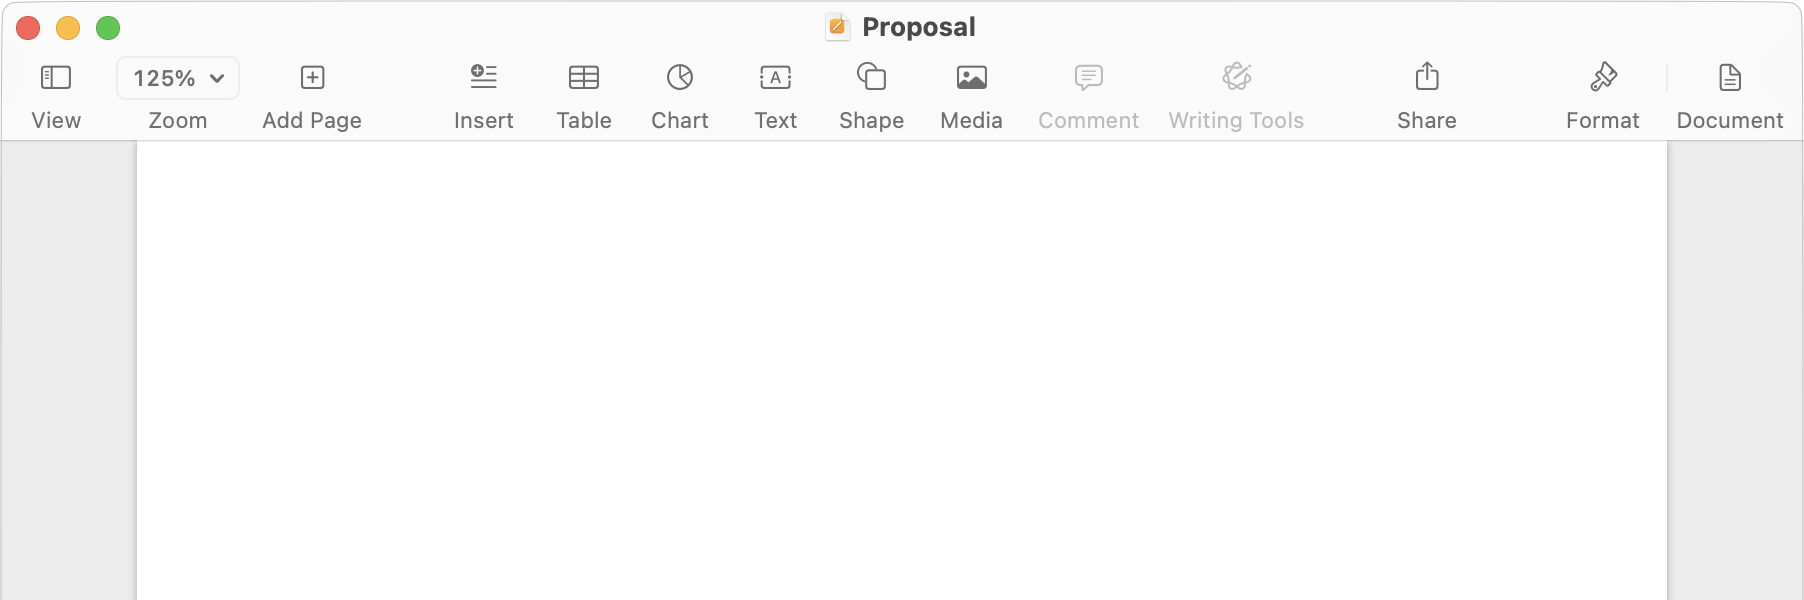
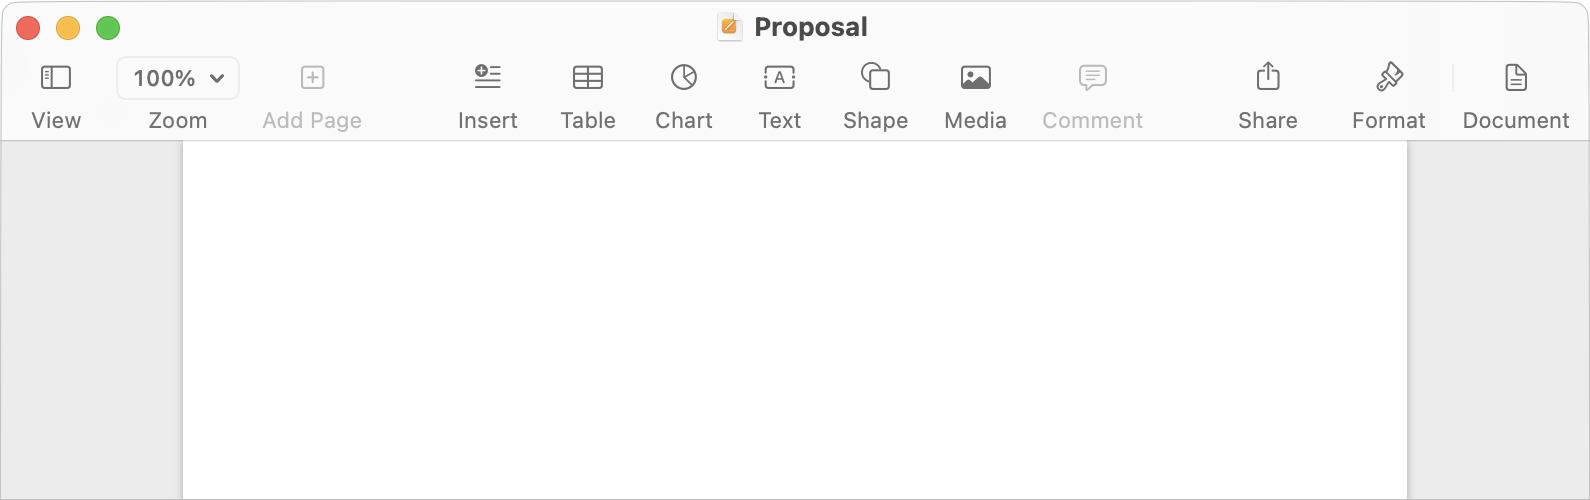
Toolbar Guidelines page minor updates
Updated Hero Image. Updated Expanded Toolbar Image. Fixed Typo.

diff --git a/design/toolbarguidelines/index.html b/design/toolbarguidelines/index.html
@@ -279,7 +279,7 @@
                <img srcset="images/toolbar_style_doc@2x.png, 
                   images/toolbar_style_doc@2x.png 2x" 
                   src="images/toolbar_style_doc@2x.png" 
-                  style="width: 100%; max-width: 902px; display: block; margin-left: auto; margin-right: auto;" 
+                  style="width: 100%; max-width: 795px; display: block; margin-left: auto; margin-right: auto;" 
                   alt="">
                <p class="small" style="padding-top: 8px; text-align: center">Standard toolbar styling for Document-based applications.</p>
                <br>
@@ -349,7 +349,7 @@
                <h2 id="SpecialItems">Special Items</h2>
 			   <p>The following are built-in Toolbar Items and Identifiers developers can use to achieve results like those described in this article.</p>
                <ul>
-                  <li><a href="https://developer.apple.com/documentation/appkit/nstoolbaritem/identifier/cloudsharing">.cloudSharing</a>: A toolbar item identifier that tells you app to display the iCloud sharing interface.</li>
+                  <li><a href="https://developer.apple.com/documentation/appkit/nstoolbaritem/identifier/cloudsharing">.cloudSharing</a>: A toolbar item identifier that tells your app to display the iCloud sharing interface.</li>
                   <li><a href="https://developer.apple.com/documentation/appkit/nstoolbaritem/identifier/writingtoolsitemidentifier">.writingToolsItemIdentifier</a>: A toolbar item identifier that tells your app to display the Apple Intelligence Writing Tools UI.</li>
                   <li><a href="https://developer.apple.com/documentation/appkit/nstoolbaritem/identifier/togglesidebar">.togglesidebar</a>: A toolbar item identifier that toggle's your app's sidebar.</li>
                   <li><a href="https://developer.apple.com/documentation/appkit/nstoolbaritem/identifier/sidebartrackingseparator">.sidebartrackingseparator</a>: A toolbar item identifier that visually aligns itself with the sidebar divider of a vertical split view in the same window.</li>
